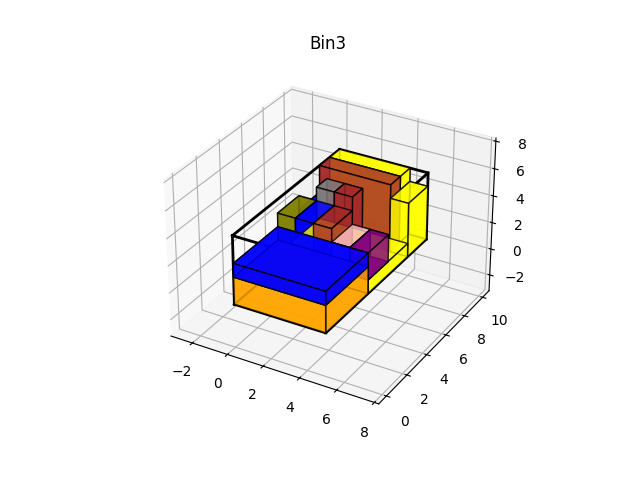
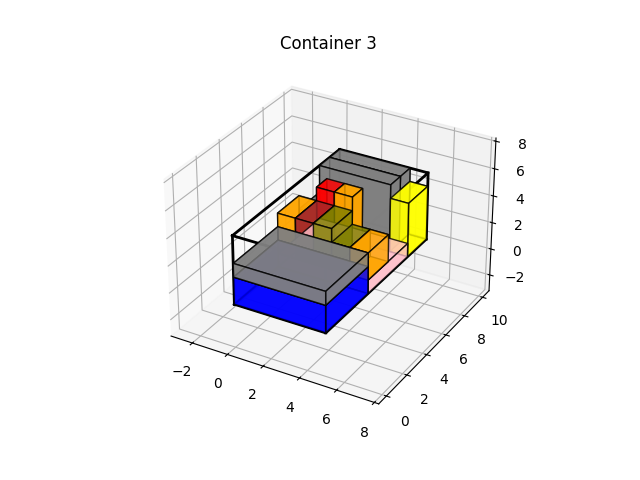
Add containers utilized to output message

Changed region(s): [[0.3438, 0.3125, 0.6562, 0.6875], [0.4375, 0.0625, 0.5938, 0.125]]

diff --git a/app.py b/app.py
@@ -19,6 +19,7 @@ bin_size = -1
 items = []
 item_size = 0
 counter = 0
+bins_used = 0
 
 if uploaded_file is not None:
     # Use uploaded file content instead of hardcoded path
@@ -52,7 +53,7 @@ if uploaded_file is not None:
     packer = Packer()
     #  init bin
     for i in range(len(bins)):
-        box = Bin('Bin{}'.format(str(i+1)), bins[i], 100, 0, 0)
+        box = Bin('Container {}'.format(str(i+1)), bins[i], 100, 0, 0)
         packer.addBin(box)
 
     #  add item
@@ -86,6 +87,7 @@ if uploaded_file is not None:
     output = "***************************************************\n"
     for idx, b in enumerate(packer.bins):
         output += f"** {b.string()} **\n"
+        bins_used += 1
         output += "***************************************************\n"
         output += "FITTED ITEMS:\n"
         output += "***************************************************\n"
@@ -94,8 +96,8 @@ if uploaded_file is not None:
         volume_f = 0
         unfitted_name = ''
         for item in b.items:
-            output += f"partno : {item.partno}, "
-            output += f"W*H*D : {item.width} * {item.height} * {item.depth}\n"
+            output += f"Package no. : {item.partno}, "
+            output += f"Dimensions : {item.width} * {item.height} * {item.depth}\n"
             volume_t += float(item.width) * \
                 float(item.height) * float(item.depth)
 
@@ -126,6 +128,7 @@ if uploaded_file is not None:
 
     # Print the entire output
     print(output)
+    st.text("Containers utilised: " + str(bins_used) + "/" + str(len(bins)))
     st.text("Packing information:")
     st.text(output)
-    #st.pyplot(fig)
+    # st.pyplot(fig)
